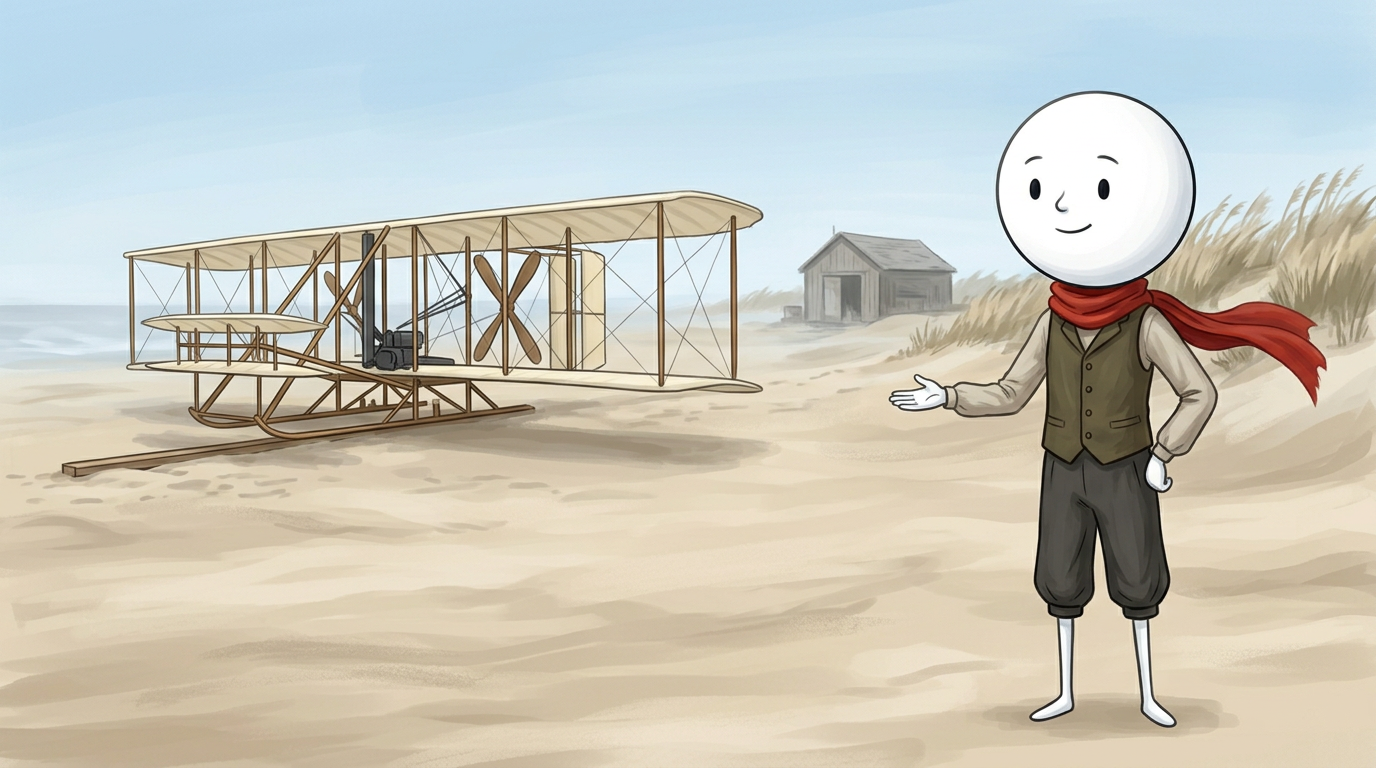
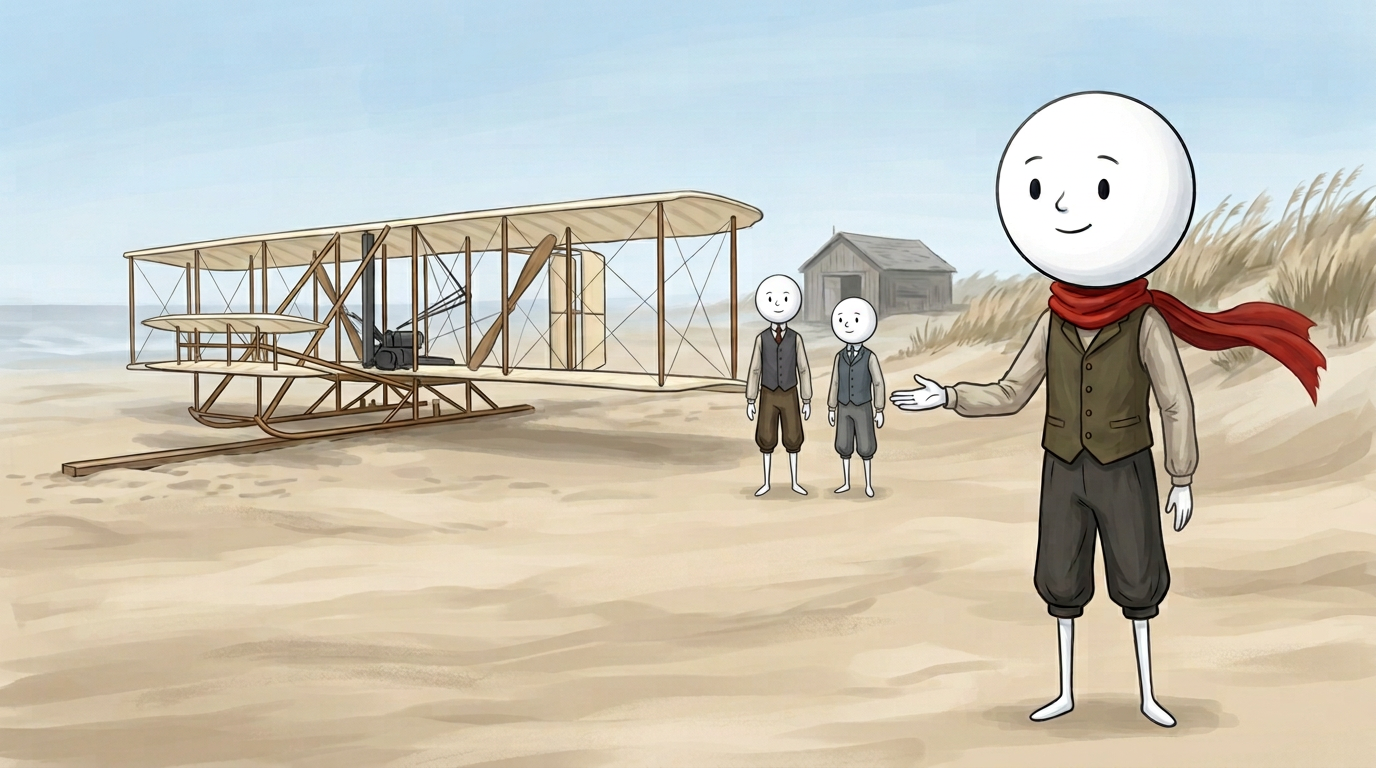
B029 kullanici duzeltmesi: iki Wright kardes her sahnede, en az 3 karakter; Taylor ile 4

diff --git a/bolumler/029-wright-ilk-ucus/BOLUM-PLANI.md b/bolumler/029-wright-ilk-ucus/BOLUM-PLANI.md
@@ -1,7 +1,7 @@
 # B029 — 1903: WRIGHT KARDEŞLERİN İLK UÇUŞLARI
 
 > Seri E 6. bölüm · YOL44 / Konu17.
-> DURUM: **Kostüm/karakter kullanıcı tarafından “Devam” ile onaylandı.** Ara üretim: 9 görsel dosyası (5 kontrolü geçti / 4 düzeltme bekliyor), ilk 10 voice-03 Türkçe ses hazır (368,184 sn ham). Video henüz üretilmedi. Ayrıntı: `URETIM-DURUMU.json`.
+> DURUM: **Kostüm/karakter kullanıcı tarafından “Devam” ile onaylandı.** Ara üretim: 9 görsel dosyası (karakter sayısı: 8 sahnede 3, motor sahnesinde 4; genel görsel QA: 4 geçti / 5 düzeltme bekliyor), ilk 10 voice-03 Türkçe ses hazır (368,184 sn ham). Video henüz üretilmedi. Ayrıntı: `URETIM-DURUMU.json`.
 > Kaynak: `arastirma/029-uzun-wright-ilk-ucus.md`.
 
 ## Format ve kilitler
@@ -14,6 +14,13 @@
 - Ayrı, okunabilir abone kartı: **KANALIMA ABONE OLMAYI UNUTMAYIN!** Yazılar çakışmaz.
 - Kapak v4, yalnız uzun videoya: büyük konu başlığı taslağı **SADECE 12 SANİYE! / İLK UÇUŞ**; kırmızı 1903 vurgusu; dönem kıyafetli Meraklı odakta. Kapak henüz üretilmedi.
 - Gerçek modern kayıtlı SFX + müzik, kaynak/lisans künyesi ve MODERN ANALOJİ etiketi zorunlu. 1903 özgün ses kaydı yok. Jet motoru/flaş/elektronik uyarı kullanılmaz.
+
+## Yeni kullanıcı düzeltmesi — yan karakter yoğunluğu (22 Ekim 2026)
+- “Wright kardeşler diyor tek kişi çıkıyor; en az 3 karakter” düzeltmesi uygulandı. Anlatı görsellerinde **Meraklı + Wilbur + Orville** birlikte ve ayrı okunur; s07 motor sahnesinde Taylor ile **4 karakter**.
+- Yeni üretilecek kalan 16 görsel de bu minimumu koruyacak. Teknik yakın ayrıntıda nesne önde olsa bile kardeşler ve Meraklı güvenli arka planda bulunacak.
+- Kardeşler küçük fakat fark edilir, boş siluetli: Wilbur koyu kömür yelek/kahverengi diz pantolonu, Orville arduvaz yelek/gri diz pantolonu. İkisi de krem gömlekli, beyaz kafa/uzuv/el/ayaklı çöp adam. Kırmızı fular yalnız Meraklı.
+- Yan yana eller birleşmez; en az omuz genişliğinde açık aralık. Her figürde 2 kol/2 ayrı el/2 bacak/2 ayak denetimi.
+- Bu kompozisyon tarihsel tanık listesi değildir; Meraklı kurgu katmanda.
 
 ## Karakter / görsel QA
 - Kanon `karakter/merakli-referans.png`: çok büyük saf beyaz yuvarlak kafa, sade küçük oval gözler, ince kaş, küçük burun/ağız; ince beyaz çubuk uzuvlar, küçük beyaz eller/ayaklar. Kırmızı uzun fular her zaman, yalnız Meraklı'da.
@@ -120,6 +127,12 @@ Günün sonunda benim defterimde yalnız on iki saniye yazmıyor. Ölçmek, yeni
 - s01 karakter/kostüm kullanıcı “Devam” yanıtıyla onaylandı. Karakter kimliği değişmez; uçaktaki pervane pala sayısı düzeltilecek.
 - Bu üretim turu: 10 başarılı görsel üretim/düzenleme çağrısı; 9 toplam görsel dosyası. s02/s04/s05/s06/s08 görsel kontrolü geçti. s04'teki motor benzeri parça kaldırıldı; s05 yan figürün ayakları beyaz olarak düzeltildi.
 - Düzeltme bekleyenler: s01 ve s04b pervaneler iki palalı olmalı; s03 tam boy kadraj/yan figür altları; s07 Taylor'ın gizli ikinci eli ayrı görünmeli ve motor alçak yatay dört silindir biçiminde olmalı. Bunlar **final PASS değildir**.
-- s01–s10 voice-03/tr: 10 MP3 dosyası, başlık okuma doğrulaması geçti; toplam 368,184 sn. Dinleme ve final tam decode henüz yapılmadı.
+- s01–s10 voice-03/tr: 10 MP3 dosyası, başlık okuma doğrulaması geçti; toplam 368,184 sn. On MP3 baştan sona FFmpeg decode kontrolünü geçti; dinleme/final miks QA henüz yapılmadı.
 - Araç bu tur 10 görsel sınırına ulaştı; s08b ve s07 düzeltme çağrıları limit nedeniyle dosya üretmedi. Yeniden deneme sonraki tur.
 - Kalan 16 görsel, dört mevcut görsel düzeltmesi, s11–s20 sesler, final kapak, render, SFX lisans künyesi ve teknik QA **henüz yapılmadı**. Her dosyanın ayrıntısı `URETIM-DURUMU.json` içinde.
+
+### 22 Ekim 2026 — kullanıcı karakter yoğunluğu düzeltmesi
+- Mevcut dokuz görselin tamamı değiştirildi: s01/s02/s03/s04/s04b/s05/s06/s08 üçer, s07 dört karakter. Karakter sayısı kontrolleri geçti.
+- Dokuz başarılı görsel düzenleme; s05 ek ayrıştırma denemesi servis MAX_TOKENS/no-image hatasıyla sonuçlandı, mevcut üç karakterli sürüm korundu.
+- Güncel genel QA: s01/s02/s04/s08 geçti; s03/s05 kadraj-el aralığı, s04b mekanik netlik, s06 ok yönleri, s07 motor silindir yönelimi düzeltme bekliyor. Sayı onayı genel teknik onay yerine geçmez. Önceki günlük girdileri önceki taslakları anlatır; güncel kaynak URETIM-DURUMU.json.
+- Yeni ses üretilmedi; ilk 10 kayıt değişmedi. Kalan 16 görsel ve 10 ses henüz yok.

diff --git a/docs/YOL_HARITASI.md b/docs/YOL_HARITASI.md
@@ -75,7 +75,7 @@ Durum: 🟥 üretimde · 🟧 sıradaki · ⬜ planlandı
 | 41 | 50b | 1783, Paris | İlk balon uçuşunda sepettedir (Montgolfier) | ✅ TAMAMLANDI (B026): 10:14 uzun video, 25 görsel, kapak v4, YAYIN ve SFX künyesi; Seri E 3. bölüm |
 | 42 | 49 | 1776, Connecticut / New York | Tek kişilik Turtle: hava, akıntı ve insan gücü | ✅ TAMAMLANDI (B027): 10:14 uzun video, 20 sahne/25 görsel, kapak v4, YAYIN ve SFX künyesi. Seri E 4. bölüm; tarihî görevde yalnız Ezra Lee |
 | 43 | 54 | 1839, Paris | Fotoğraf çırağı: daguerreotip, ışık ve beklemek | 🟡 HAZIRLIK (B028): araştırma ve 20 tam metin hazır; 20 sahne/25 görsel. s01 kostüm onayı bekleniyor. Niépce daha erken, 1839 duyuru; kimyasal uygulama yok |
-| 44 | 17 | 1903, Kitty Hawk yakınları / Kill Devil Hills | Wright kardeşlerin ilk motorlu uçuşları | 🟥 B029 ÜRETİM: kostüm onaylı; 20 metin, 9 görsel dosyası (5 kontrol geçti / 4 düzeltme bekliyor), 10 voice-03 ses (368,184 sn ham). Final henüz yok. Yalnız uzun video, hedef 20 sahne/25 görsel |
+| 44 | 17 | 1903, Kitty Hawk yakınları / Kill Devil Hills | Wright kardeşlerin ilk motorlu uçuşları | 🟥 B029 ÜRETİM: kostüm onaylı; 20 metin, 9 görsel: sekizinde 3, motor sahnesinde 4 karakter (genel QA: 4 geçti / 5 düzeltme bekliyor), 10 voice-03 ses (368,184 sn ham). Final henüz yok. Yalnız uzun video, hedef 20 sahne/25 görsel |
 | 45 | 18 | 1969, Houston | Apollo 11 görev kontrol odasında (NASA ses arşivi = gerçek kayıt!) | ⬜ |
 | 46 | 16 | 1912, Kuzey Atlantik | Titanic'in çarptığı gece güvertede | ⬜ |
 | 47 | 55 | 1911, kutup | Kızak sürücüsü: köpekler, don, rasyon | ⬜ |

diff --git a/arastirma/029-uzun-wright-ilk-ucus.md b/arastirma/029-uzun-wright-ilk-ucus.md
@@ -38,3 +38,6 @@ Araştırma: 21 Ekim 2026. Seri E 6. bölüm; YOL44 / Konu17.
 - `bolumler/029-wright-ilk-ucus/uzun/gorseller/s01.png`: görsel incelendi; Meraklı'da 2 kol, birbirinden ayrı 2 beyaz el, 2 beyaz bacak/ayak. Açık gömlek, koyu zeytin-kahverengi yelek, antrasit diz altı pantolon, kırmızı uzun fular. Baş kimliği referansla uyumlu.
 - Motor kapalı, uçak yerde ve karakterden uzakta. Çift kanat, ön yatay yüzey, çift itici pervane, kızak ve tek ray okunuyor. Bu çizim mühendislik ölçülü plan değil.
 - **Kullanıcı kostüm/karakteri “Devam” ile ONAYLADI; ilk üretim grubu başladı.** s01'deki uçak pervaneleri dört palalı gibi göründüğünden iki palalı doğruluk düzeltmesi bekliyor; karakter onayı bundan ayrı. s04 motorsuz planör, s05 beyaz ayak düzeltmeleri yapıldı. s07 gizli el ve yatay silindirli motor düzeltmesi bekliyor. Güncel dosya düzeyi durum: `bolumler/029-wright-ilk-ucus/URETIM-DURUMU.json`.
+
+## 22 Ekim 2026 güncellemesi
+Kullanıcı yan karakterleri artırdı: mevcut 9 sahne dosyasında iki Wright kardeş de eklendi; 8 sahne üç, Taylor motor sahnesi dört karakter. Bu AI temsilî kompozisyon Meraklı gerçek tanık iddiası oluşturmaz. İlk on ses değişmedi. Genel QA ile karakter sayısı kontrolü ayrı tutuluyor; güncel düzeltme listesi URETIM-DURUMU.json içinde.

diff --git a/docs/KARAKTER.md b/docs/KARAKTER.md
@@ -51,3 +51,11 @@
 > 100% identical to the reference, including nose and mouth. SCENE:
 > [SAHNE/TANIM] ... vertical 9:16, no text, no watermark."
 > (referans: `karakter/merakli-referans.png`)
+
+## Kullanıcı düzeltmesi — yan karakter yoğunluğu (22 Ekim 2026)
+
+- Sahneyi sürekli tek Meraklı ile boş bırakma; konuya uygun yan karakterler daha fazla ve görünür olsun.
+- B029 Kitty Hawk / Wright kardeşler: anlatı görsellerinde en az **3 karakter: Meraklı + Wilbur + Orville**. Motor atölyesinde Taylor da görünür: **4 karakter**. Kardeşlerden birini eksik bırakma.
+- Tüm yan figürler Meraklı ile aynı beyaz yuvarlak kafalı, ince beyaz çubuk uzuvlu, giyinik çöp adam stili; gerçekçi insan yok. Kırmızı fular yalnız Meraklı.
+- Kalabalık artırılırken anatomi bozulmaz: her figürde 2 kol/2 ayrı görünür el/2 bacak/2 ayak, kişiler arasında açık boşluk, üst üste/kenetli el yok.
+- Temsilî birlikte görünme, Meraklı tarihsel bir tanıkmış gibi sunulmaz.
